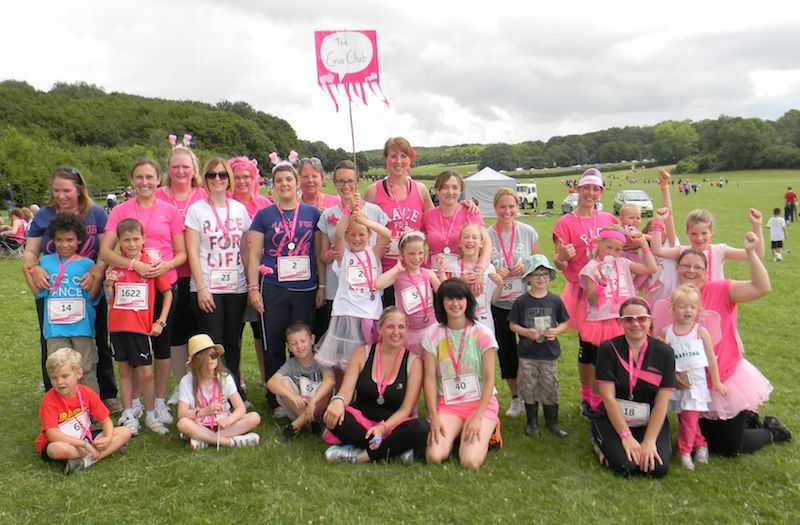
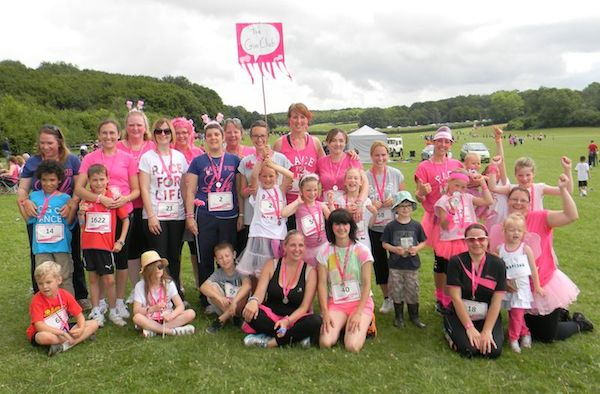
Image fix

diff --git a/_posts/2014-07-15-race-for-life.md b/_posts/2014-07-15-race-for-life.md
@@ -10,7 +10,7 @@ comments: true
 Sixteen ladies and twelve children ran or walked the 5km course round Stevenage Fairlands Valley Park as part of The Gin Club Team. When I was diagnosed in October last year, it was one of the first things I asked the Breast Care Nurse.  She wasn't very committal, and said it depend where I was in my treatment.  If I'd have had the planned FEC chemo in May/June, there was very little chance that I would have been able to participate, or if I did it was may have been in a wheelchair.  As it happened the Paclitaxel chemotherapy and the biological treatment Herceptin worked so well that there was no need for the extra chemo, and I was delighted to be able to take part.  This year it was personal.
 
 <p class="center">
-<img src="/images/GinClubRaceforLife2014.jpg" alt="Post Race picture" />
+<img src="/images/GinClubRaceforLife2014.jpg" alt="Post Race picture" style="width: auto;"/>
 </p>
 
 I knew I wouldn't be able to run it, my energy levels are still massively diminished, but Imogen and Felix were keen to do so.  Luckily, Catherine agreed to Felix running with her and James, and Michelle had Imogen running with her and Katy.  They both did so well and I am so proud of them.
